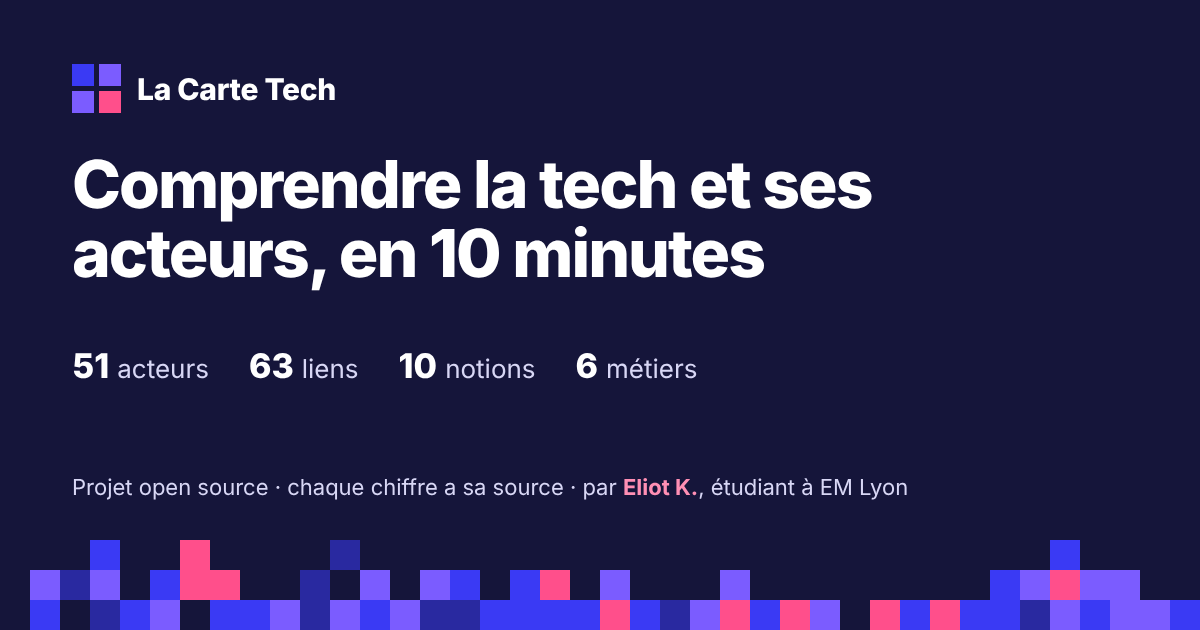
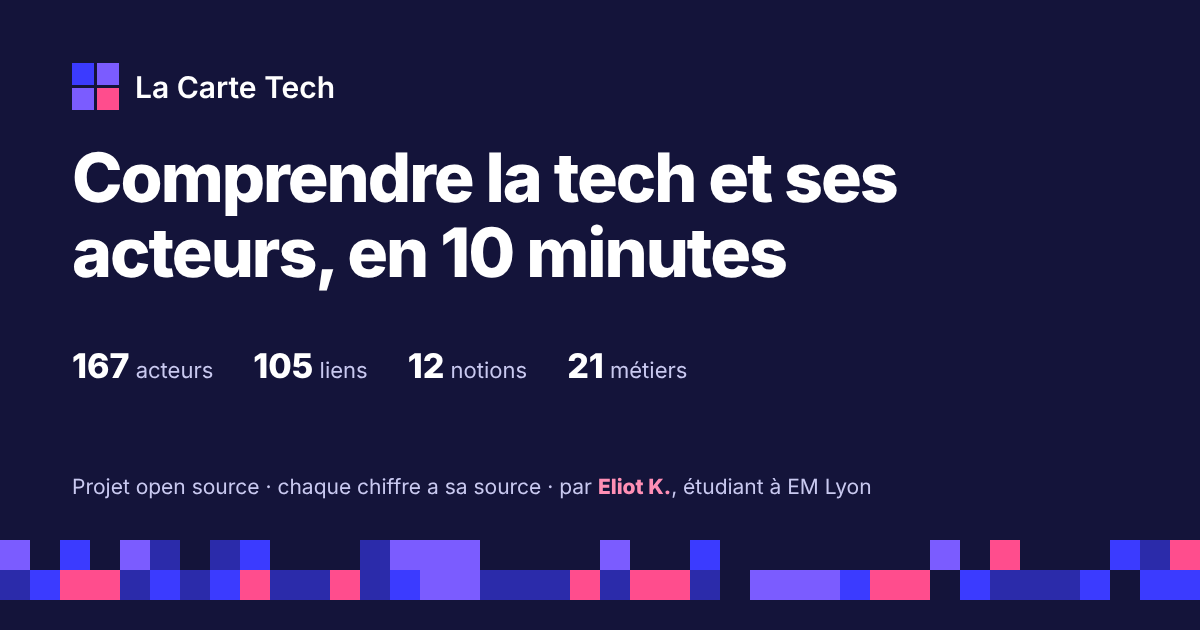
Accueil : note sur le sens des statuts et des bureaux ; README et image de partage à jour ; bureaux de MongoDB, Workday, Okta et Check Point
Claude-Session: https://claude.ai/code/session_01HVZGUx1fbgR7LwDNEAT1UP

diff --git a/site/index.html b/site/index.html
@@ -104,6 +104,7 @@
 
   <section class="section" aria-labelledby="titre-fiches">
     <h3 class="sous-titre" id="titre-fiches">Les fiches</h3>
+    <p class="discret note-donnees">Données relevées en octobre 2026 sur les sites officiels des entreprises. <b>« Stage : oui »</b> veut dire que leur page officielle annonce des stages ou une offre : la fiche précise les pays, et la France n’est pas toujours confirmée. <b>« À vérifier »</b> veut dire pas encore contrôlé. Les bureaux ne sont pas renseignés pour toutes les fiches, donc les chiffres du filtre « Locaux en » sont des minimums. Une erreur, un oubli ? <a href="https://github.com/eliotkoz-dev/la-carte-tech/blob/main/CONTRIBUTING.md" rel="noopener">Complétez une fiche sur GitHub</a>, c’est un projet communautaire.</p>
     <div class="recherche"><label class="sr-seul" for="recherche">Rechercher une entreprise</label><input type="search" id="recherche" placeholder="Rechercher une entreprise, un produit… (ex. Datadog)" autocomplete="off"></div>
     <div class="filtres" role="group" aria-label="Filtres">
       <span id="pilules" style="display: contents"></span>

diff --git a/site/assets/style.css b/site/assets/style.css
@@ -403,3 +403,5 @@ button { font: inherit; color: inherit; }
 .liens-carrieres{display:flex;flex-wrap:wrap;gap:.5rem 1rem;margin:.4rem 0 0;font-weight:600}
 
 .explication-locaux { margin: 4px 0 0; font-size: 14px; }
+
+.note-donnees { margin: 6px 0 14px; font-size: 14px; line-height: 1.5; max-width: 80ch; }

diff --git a/README.md b/README.md
@@ -8,7 +8,7 @@
 
 Un site open source, fait par des étudiants pour des étudiants, qui explique simplement :
 
-- **les acteurs** : 152 entreprises (cloud, IA, puces, data, logiciels, cybersécurité, pub, e-commerce, fintech, crypto, aérospatial et défense), avec leur chiffre d’affaires, leurs produits phares, leur modèle économique, leur façon de vendre, leurs rachats, leurs liens (qui possède qui, qui investit dans qui, qui travaille avec qui) et leurs stages ;
+- **les acteurs** : 167 entreprises (cloud, IA, puces, data, logiciels, cybersécurité, pub, e-commerce, fintech, crypto, aérospatial et défense), avec leur chiffre d’affaires, leurs produits phares, leur modèle économique, leur façon de vendre, leurs rachats, leurs liens (qui possède qui, qui investit dans qui, qui travaille avec qui) et leurs stages ;
 - **la tech en rapide** : douze notions qui s’ouvrent au clic, avec la taille du marché et les plus gros acteurs ;
 - **les métiers** de la tech au-delà du code : vente, avant-vente, relation client, marketing, produit, data et fonctions business.
 - **où candidater** : les sites d’offres (grandes audiences, start-ups, stages et alternance) et comment lire les sites carrières des entreprises.
